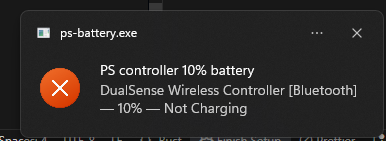
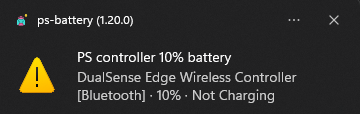
docs: update screenshots and correct the documented alert levels
The screenshots predated the new icon, the middle dot separator and the
scan status line, and the tray one still showed a menu item that no
longer exists.

The alert levels were also wrong. A controller reports its charge as a
single 0-10 level, so the percentage is always a multiple of 10 and the
"<=10%" and "<=20%" thresholds implied states that cannot occur. There
are exactly three reachable alert levels: 0%, 10% and 20%. The
screenshot named notification_30.png documented a level that never
fires at all, and is replaced by notification_0.png.

diff --git a/README.md b/README.md
@@ -7,28 +7,28 @@ I was so annoyed by my PlayStation controllers running out of battery without wa
 ## Features
 
 1. Alerts you every 5 minutes if you have a low-battery controller connected via Bluetooth that is not charging.
-2. If a low-battery controller is detected, alert the user in the following way:
+2. If a low-battery controller is detected, alert the user in the following way. Controllers report their charge as a single 0-10 level, so the battery percentage is always a multiple of 10 and these are the only three levels that trigger an alert:
    - Show a Windows notification balloon based on remaining battery:
      - 0% => Error balloon
-     - ≤10% => Warning balloon
-     - ≤20% => Info balloon
+     - 10% => Warning balloon
+     - 20% => Info balloon
    - Play a system sound when in game / fullscreen / presentation mode (to cut through the DND silence):
      - 0% => Critical Stop
-     - ≤10% => Exclamation
-     - ≤20% => Notification
+     - 10% => Exclamation
+     - 20% => Notification
 3. Adds an application to the Windows tray. Opening the menu triggers an immediate background scan (instead of waiting for the next automatic check), then shows:
    - A "Scanning for controllers…" / "Scan completed" line while the scan is running and just after it finishes.
    - All connected controllers, their battery %, and whether they are charging.
    - **Run on startup**: run the app on Windows login (off by default).
    - **Open log**: open the log file (`%APPDATA%\ps-battery\ps-battery.log`).
 
-<img src="./images/notification_30.png" alt="Notification example" width="400" />
+<img src="./images/notification_20.png" alt="Info balloon at 20% battery" width="400" />
 
-<img src="./images/notification_20.png" alt="Notification example" width="400" />
+<img src="./images/notification_10.png" alt="Warning balloon at 10% battery" width="400" />
 
-<img src="./images/notification_10.png" alt="Notification example" width="400" />
+<img src="./images/notification_0.png" alt="Error balloon at 0% battery" width="400" />
 
-<img src="./images/tray.png" alt="Tray example" width="400" />
+<img src="./images/tray.png" alt="Tray menu showing connected controllers" width="400" />
 
 ## Microsoft Store packaging
 
